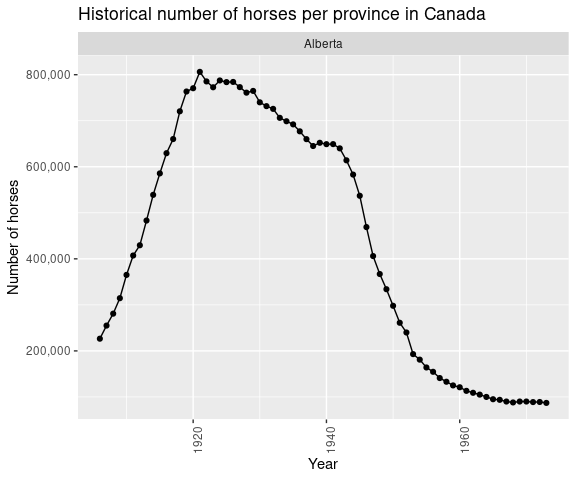
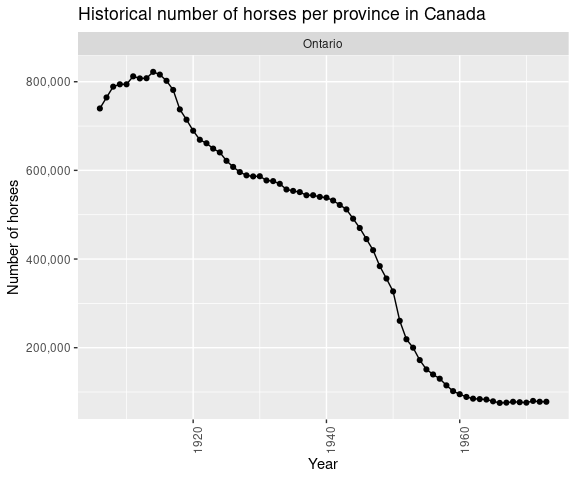
finished all the questions

diff --git a/doc/hist_horse_pop.md b/doc/hist_horse_pop.md
@@ -32,6 +32,8 @@ tidyverse(Wickham 2017). The code used to perform the analysis and
 create this report can be found here:
 <https://github.com/ttimbers/equine_numbers_value_canada_rmd>.
 
+There was a cool paper about machine learning once (Michie et al. 1994)
+
 ## Results
 
 <div class="figure">
@@ -70,7 +72,7 @@ time point between 1940 - 1972:
 Table 1. Maximum and minimum number of horses for each province between
 1940 - 1972
 
-Below we zoom in and look at the province of Alberta:
+Below we zoom in and look at the province of Ontario:
 
 <div class="figure">
 
@@ -84,6 +86,14 @@ Figure 2 Horse populations for Alberta between 1940-172
 # References
 
 <div id="refs" class="references csl-bib-body hanging-indent">
+
+<div id="ref-michie1994machine" class="csl-entry">
+
+Michie, Donald, David J Spiegelhalter, CC Taylor, and others. 1994.
+“Machine Learning.” *Neural and Statistical Classification* 13 (1994):
+1–298.
+
+</div>
 
 <div id="ref-R" class="csl-entry">
 
